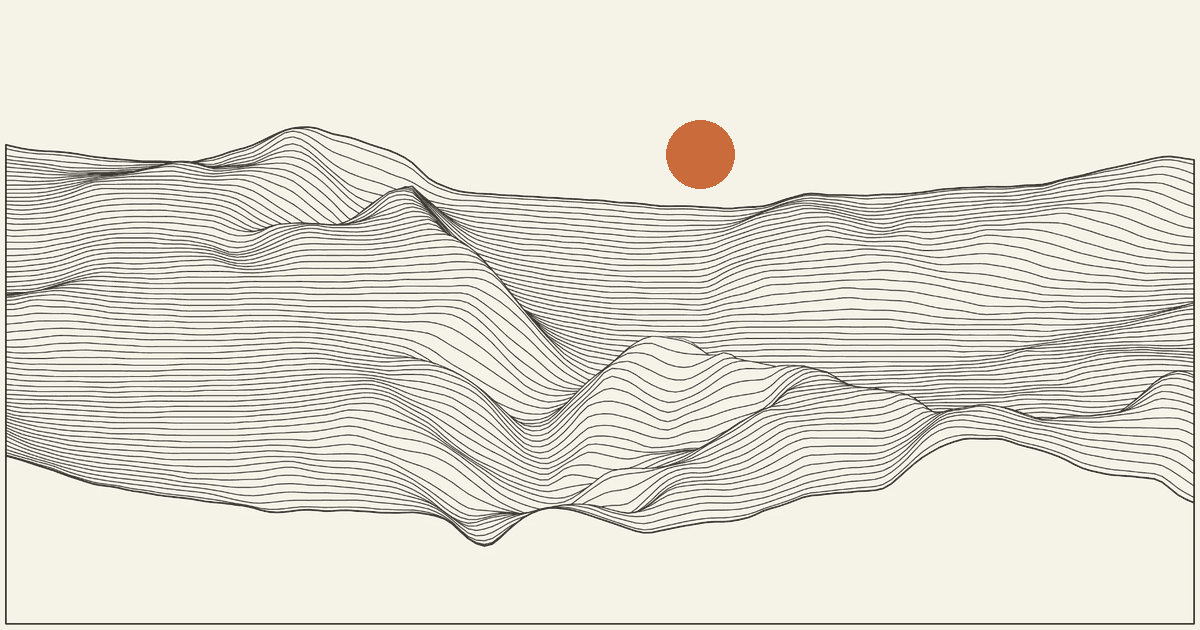
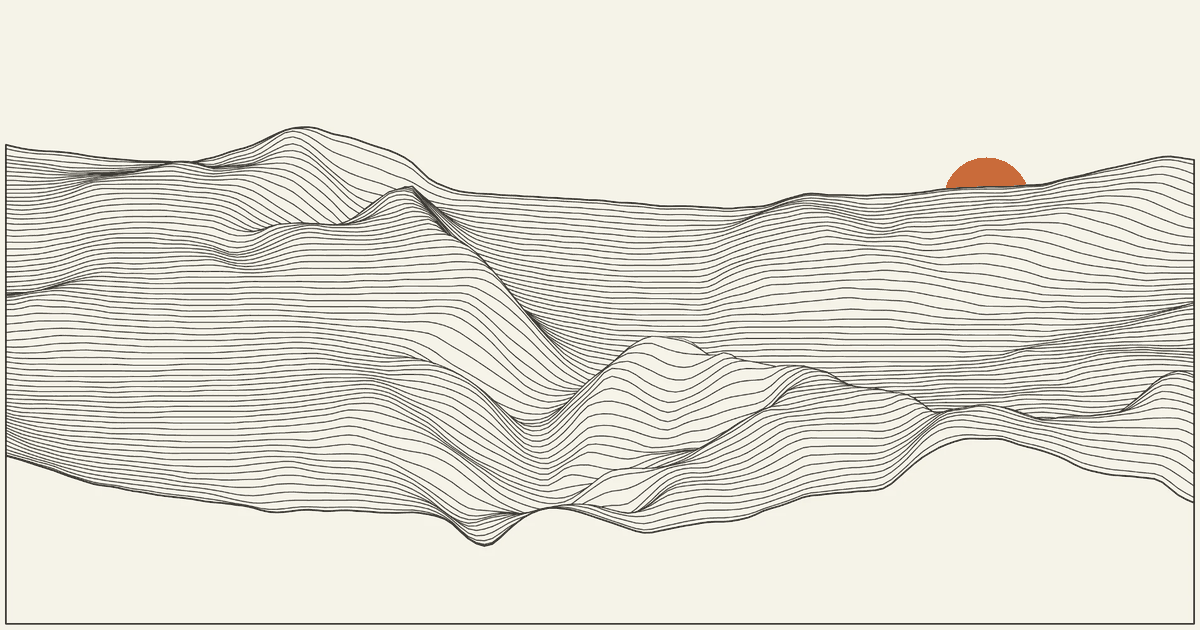
the preview sun sets behind the ridge, where Will marked it: fitted to his arc (centre 986,200 r 43) and painted only above the skyline, so the ridge cuts across it

Changed region(s): [[0.555, 0.181, 0.6167, 0.3016], [0.7708, 0.2413, 0.8633, 0.3016]]

diff --git a/HANDOFF-2026-09-19-bilingual.md b/HANDOFF-2026-09-19-bilingual.md
@@ -61,7 +61,7 @@ Tested by `e2e_bug.js`: the box opens on both pages, carries the state, catches 
 
 ## Link preview (`og.png`)
 
-Sharing a link used to fall back to the app icon, so WhatsApp showed the little two-line icon. `og.png` (1200×630, 167 KB, under WhatsApp's 600 KB limit) is Will's line drawing of the ground with the icon's orange sun over the ridge, and topo / flight / index each carry `og:title`, `og:description`, `og:url` and that image. The sun sits near the middle on purpose: WhatsApp often crops to the middle square. Rebuild it with `make_og.py` in the scratchpad if the drawing ever changes — the sun is an exact palette entry so the 8-bit png keeps the orange.
+Sharing a link used to fall back to the app icon, so WhatsApp showed the little two-line icon. `og.png` (1200×630, 167 KB, under WhatsApp's 600 KB limit) is Will's line drawing of the ground with the icon's orange sun over the ridge, and topo / flight / index each carry `og:title`, `og:description`, `og:url` and that image. The sun sets behind the ridge on the right, where Will marked it: it is painted only above the skyline, so the ridge cuts across it. Note that a middle-square crop (which WhatsApp sometimes does for small previews) would miss it. Rebuild it with `make_og.py` in the scratchpad if the drawing ever changes — the sun is an exact palette entry so the 8-bit png keeps the orange.
 
 Caches: WhatsApp and Facebook keep a link's preview for a while. If an old preview sticks, add `?x=1` to the link, or refresh it at developers.facebook.com/tools/debug.
 
